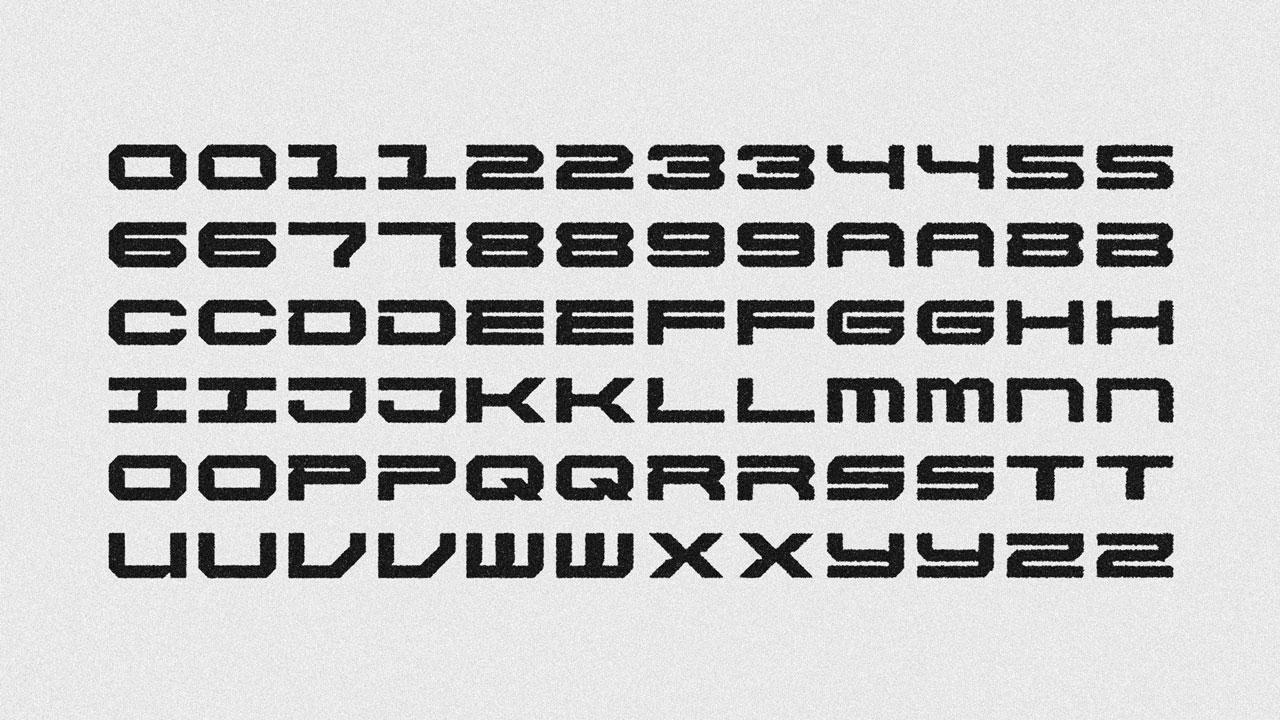
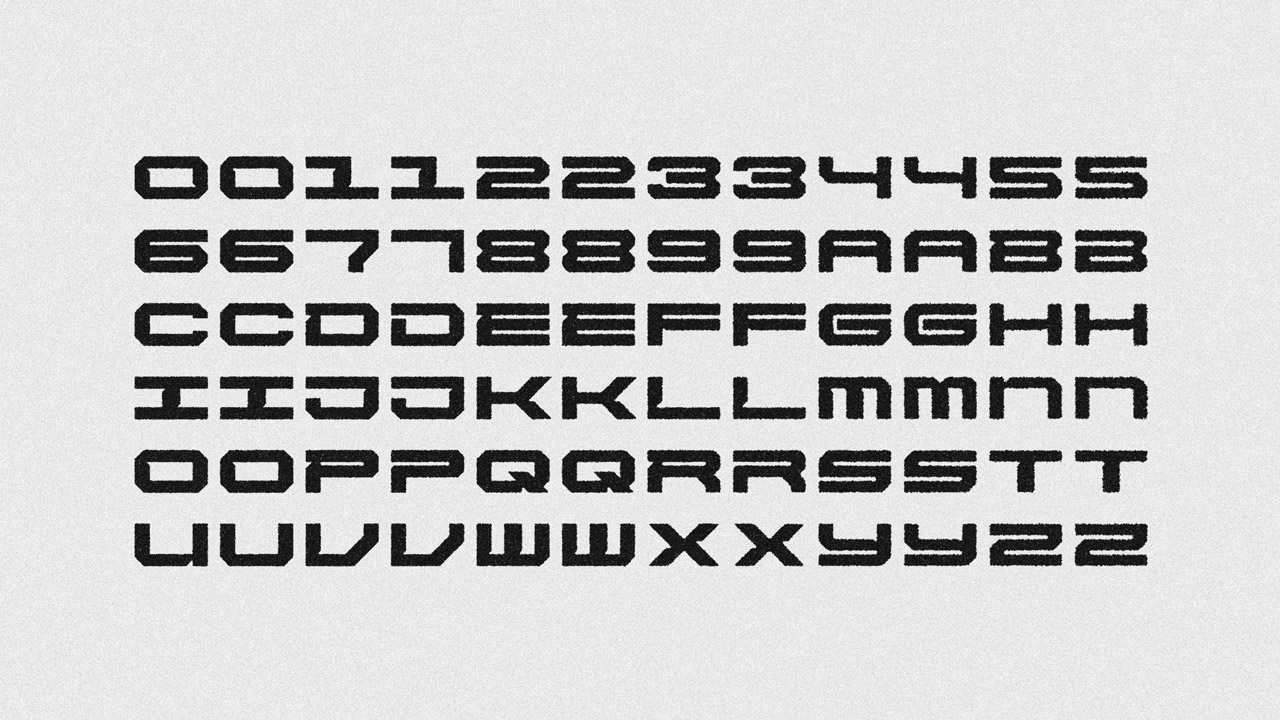
updates

Changed region(s): [[0.0625, 0.5194, 0.9375, 0.825], [0.0625, 0.3056, 0.9375, 0.4889], [0.0625, 0.1833, 0.9375, 0.275]]

diff --git a/about.html b/about.html
@@ -32,10 +32,69 @@
 <title>mattcolewilson → about</title>
 <meta name="description" content="Kansas City based graphic designer.">
 
+<style>
+
+.drag{
+position:relative;
+z-index: 100;
+}
+.drag:hover{
+cursor:move;
+}
+
+</style>
+
+<script type="text/javascript">
+  
+  var dragobject={
+  z: 0, x: 0, y: 0, offsetx : null, offsety : null, targetobj : null, dragapproved : 0,
+  initialize:function(){
+  document.onmousedown=this.drag
+  document.onmouseup=function(){this.dragapproved=0}
+  },
+  drag:function(e){
+  var evtobj=window.event? window.event : e
+  this.targetobj=window.event? event.srcElement : e.target
+  if (this.targetobj.className=="drag"){
+  this.dragapproved=1
+  if (isNaN(parseInt(this.targetobj.style.left))){this.targetobj.style.left=0}
+  if (isNaN(parseInt(this.targetobj.style.top))){this.targetobj.style.top=0}
+  this.offsetx=parseInt(this.targetobj.style.left)
+  this.offsety=parseInt(this.targetobj.style.top)
+  this.x=evtobj.clientX
+  this.y=evtobj.clientY
+  if (evtobj.preventDefault)
+  evtobj.preventDefault()
+  document.onmousemove=dragobject.moveit
+  }
+  },
+  moveit:function(e){
+  var evtobj=window.event? window.event : e
+  if (this.dragapproved==1){
+  this.targetobj.style.left=this.offsetx+evtobj.clientX-this.x+"px"
+  this.targetobj.style.top=this.offsety+evtobj.clientY-this.y+"px"
+  return false
+  }
+  }
+  }
+  
+  dragobject.initialize()
+
+</script>
+
+
 </head>
 
 <body>
 
+<div style="right: 12vw; bottom: 64px; position:fixed;"><img class="drag" style="width:300px; rotate:2deg;" src="images/mw.png"></div>
+
+<div style="right: 27vw; bottom: 130px; position:fixed;"><img class="drag" style="width:200px; rotate:-3deg;" src="images/globe.png"></div>
+
+<div style="right: 7vw; bottom: 69px; position:fixed;"><img class="drag" style="width:130px; rotate:4deg;" src="images/rated-m.png"></div>
+    
+<div style="right: 21vw; bottom: 62px; position:fixed;"><img class="drag" style="width:150px" src="images/smiley.png"></div>
+    
 <columns>
 <article>
 <p><b><a href="index.html" style="text-decoration:none">mattcolewilson.com</a></b> <span class="blink">→ a real human being</span></p>
@@ -46,8 +105,6 @@
 </article>
 
 </columns>
-
-<img class="headshot" src="images/about.png" alt="A heavily-dithered photo of Matt Cole Wilson holding his cat, Arcade. Matt’s looking at the camera, through a pair of glasses, while wearing a white Napalm Death t-shirt. Arcade, the cat, is looking off into space.">
 
 <hr>
 
@@ -64,29 +121,39 @@ Occasional freelance / pro bono for cool projects.</p>
 <img class="sig" src="sigs/ds.gif"><br>
 <img class="sig" src="sigs/ws.gif"><br>
 <img class="sig" src="sigs/re.gif"><br>
-<img class="sig" src="sigs/tr.gif"><br><br>
+<img class="sig" src="sigs/tr.gif"><br>
 </p>
 
-<h1>Notable Design Work</h1>
-
-<p><a href="https://shop.tumblr.com/" target="_blank"> Tumblr</a>: freelance merch design<br>
-<a href="https://www.bitmapbooks.com/" target="_blank">Bitmap Books</a>: freelance anniversary graphics<br>
-<a href="https://orvillepeck.shop.musictoday.com/" target="_blank">Orville Peck</a>: freelance website graphic<br>
-<a href="http://mikeeagle.net/" target="_blank">Open Mike Eagle</a>: freelance t-shirt design<br>
-<a href="https://www.dafont.com/geizer.font" target="_blank">Geizer font</a>: semi-popular font design<br>
-<a href="https://www.dafont.com/hypik.font" target="_blank">Hypik font</a>: semi-popular font design<br><br></p>
-
-<h1>About this Website</h1>
-
-<p>This is sort of half graphic design portfolio and half personal website. It was coded by hand using only HTML and CSS. It doesn't contain any tracking code or collect any information about you. Not even number of visits! It's also designed to load fast and take up (relatively) little bandwidth and space. These are things that I think are valuable, so I thought I'd point them out. Thanks for visiting!</p>
-
-<p>Here's an 88x31 button, if you'd like to add this site to your links page:</p>
-
-<p><img class="button" src="images/mcw-button.gif"><br><br></p>
-
-<h1>Contact</h1>
+<h1>Contact Info</h1>
 <p>mattcolewilson [at] gmail.com<br>
-Discord: malyzar<br><br></p>
+Discord: malyzar<br></p>
+
+<h1>Favorite Designers</h1>
+<p><a href="https://www.draplin.com/" target="_blank">Aaron Draplin</a><br>
+<a href="https://elmore.design/" target="_blank">Andrew Elmore</a><br>
+<a href="https://baotnguyen.com/" target="_blank">Bao T. Nguyen</a><br>
+<a href="https://coryschmitz.com/" target="_blank">Cory Schmitz</a><br>
+<a href="https://www.froyotam.info/" target="_blank">Froyo Tam</a><br>
+<a href="https://jackapedia.design/" target="_blank">Jack Grimes</a><br>
+<a href="https://phearhead.com/" target="_blank">Josh Lanphear</a><br>
+<a href="https://natking.design/" target="_blank">Nat King</a><br>
+<a href="https://stephdavidson.com/" target="_blank">Steph Davidson</a><br>
+<a href="https://www.vacaliebres.com/#" target="_blank">Vacaliebres</a><br>
+</p>
+
+<h1>Equipment Specs</h1>
+<p>
+2026 MacBook Air 13” / 16GB [M5]<br>
+Motorola Razr 2023 / 8GB<br>
+JVC Flat Headphones<br>
+Lofi One Cassette Player<br>
+Casio G-Shock DW5600BB-1<br>
+Casio F91W-1<br>
+Field Notes Memo Book<br>
+Lochby Pocket Journal Cover<br>
+Pilot G-2 07 Pen<br>
+</p>
+
 
 <h1>Other Stuff</h1>
 <p><a href="https://forum.fami.club/" target="_blank">Famiclub</a><br>
@@ -105,11 +172,13 @@ Showcasing the artwork of compact discs, disc-based games, DVDs, and more.</p>
 Curating PS2 games that are available on Steam.</p>
 
 <p><a href="music.html">Various Music Projects</a><br>
-I sometimes release little music projects. You can browse them here.<br><br></p>
+I sometimes release little music projects. You can browse them here.<br></p>
 
 
 <h1>Elsewhere</h1>
-<p><a href="https://cohost.org/mattcolewilson" target="_blank">Cohost</a> (RIP)<br>
+<p>
+<a href="https://bsky.app/profile/mattcolewilson.com" target="_blank">Bluesky</a><br>
+<a href="https://web.archive.org/web/20250106192608/https://cohost.org/mattcolewilson" target="_blank">Cohost</a> (RIP)<br>
 <a href="https://letterboxd.com/malyzar/" target="_blank">Letterboxd</a><br>
 <a href="https://record.club/malyzar" target="_blank">Record Club</a><br>
 <a href="https://www.goodreads.com/user/show/6145035-matt" target="_blank">GoodReads</a><br>
@@ -118,7 +187,16 @@ I sometimes release little music projects. You can browse them here.<br><br></p>
 <a href="https://mattcolewilson.tumblr.com/" target="_blank">Tumblr</a><br>
 <a href="https://dribbble.com/mattcolewilson" target="_blank">Dribbble</a> (Inactive)<br>
 <a href="https://status.cafe/users/matt" target="_blank">Status.Cafe</a> (Inactive)<br>
-<a href="https://www.linkedin.com/in/mattcolewilson" target="_blank">LinkedIn</a></p>
+<a href="https://www.linkedin.com/in/mattcolewilson" target="_blank">LinkedIn</a><br>
+</p>
+
+<h1>About this Website</h1>
+
+<p>This is sort of half graphic design portfolio and half personal website. It was coded by hand using (mostly) HTML and CSS. It doesn't contain any tracking code or collect any information about you. No cookies, no analytics, no harvesting of data. It's also designed to load fast and take up (relatively) little bandwidth and space. These are things that I think are valuable, so I thought I'd point them out. Thanks for visiting!</p>
+
+<p>Here's an 88x31 button, if you'd like to add this site to your links page:</p>
+
+<p><img class="button" src="images/mcw-button.gif"><br><br></p>
 
 <hr>
 

diff --git a/terminak.html b/terminak.html
@@ -20,7 +20,7 @@
   title="RSS Feed">
     
 <title>mattcolewilson → terminak</title>
-<meta name="description" content="A new font.">
+<meta name="description" content="A display font.">
 
 </head>
 
@@ -28,7 +28,7 @@
 
 <columns>
 <article>
-<p><b><a href="index.html" style="text-decoration:none">mattcolewilson.com</a></b> <span class="blink">→ introducing terminak</span></p>
+<p><b><a href="index.html" style="text-decoration:none">mattcolewilson.com</a></b> <span class="blink">→ fear of the future</span></p>
 </article>
 
 <article>
@@ -39,7 +39,7 @@
 
 <hr>
 
-<h1>TERMINAK</h1>
+<h1>Introducing: TERMINAK (A Display Font)</h1>
 
 <columns>
 
@@ -49,7 +49,7 @@
 </article>
 
 <article>
-<p>+ Buy on Ko-Fi<br>
+<p>+ Buy on Ko-fi<br>
 + Price: $6.00<br>
 + Released: TBD 2026<br>
 + Number of Glyphs: 360+<br>

diff --git a/resources.html b/resources.html
@@ -35,7 +35,9 @@
 <hr>
 
 <h1>Resources</h1>
-<p>Here are a few things I've made over the years that you can download and use. Please note, these are all 100% free and do not require a login to download. Have fun!</p>
+<p>Here are a few things I've made that you can download and use. These are all 100% free, but if you'd like to toss me a few bucks, you can do so on my <a href="https://ko-fi.com/mattcolewilson" target="_blank">Ko-fi page</a>.</p>
+
+<script type='text/javascript' src='https://storage.ko-fi.com/cdn/widget/Widget_2.js'></script><script type='text/javascript'>kofiwidget2.init('Support me on Ko-fi', '#72a4f2', 'Z8Z6GAIDC');kofiwidget2.draw();</script> 
 
 <hr>
 

diff --git a/css/style.css b/css/style.css
@@ -36,6 +36,8 @@ div.logo {width: 55px; margin-left: auto;}
   border-radius: 0px;
 }
 
+.drag {border-radius: 0px;}
+
 .mii {
   width: 48vh;
   opacity: .3;
@@ -69,6 +71,7 @@ h1, h2{margin-bottom:0;}
 .right {text-align: left;}
 div.logo {margin-left: 0;}
 .headshot {display: none;}
+.drag {display: none;}
 .mii {display: none;}
 }
 